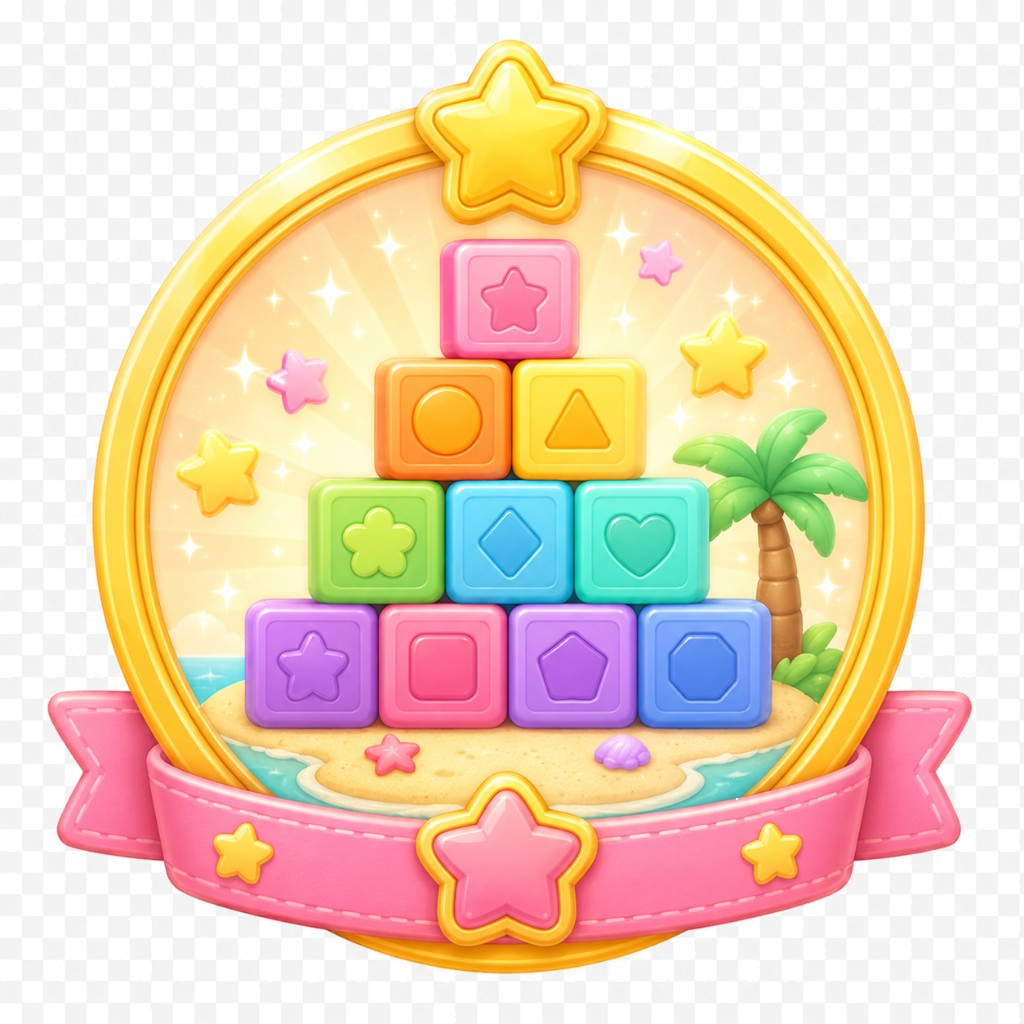
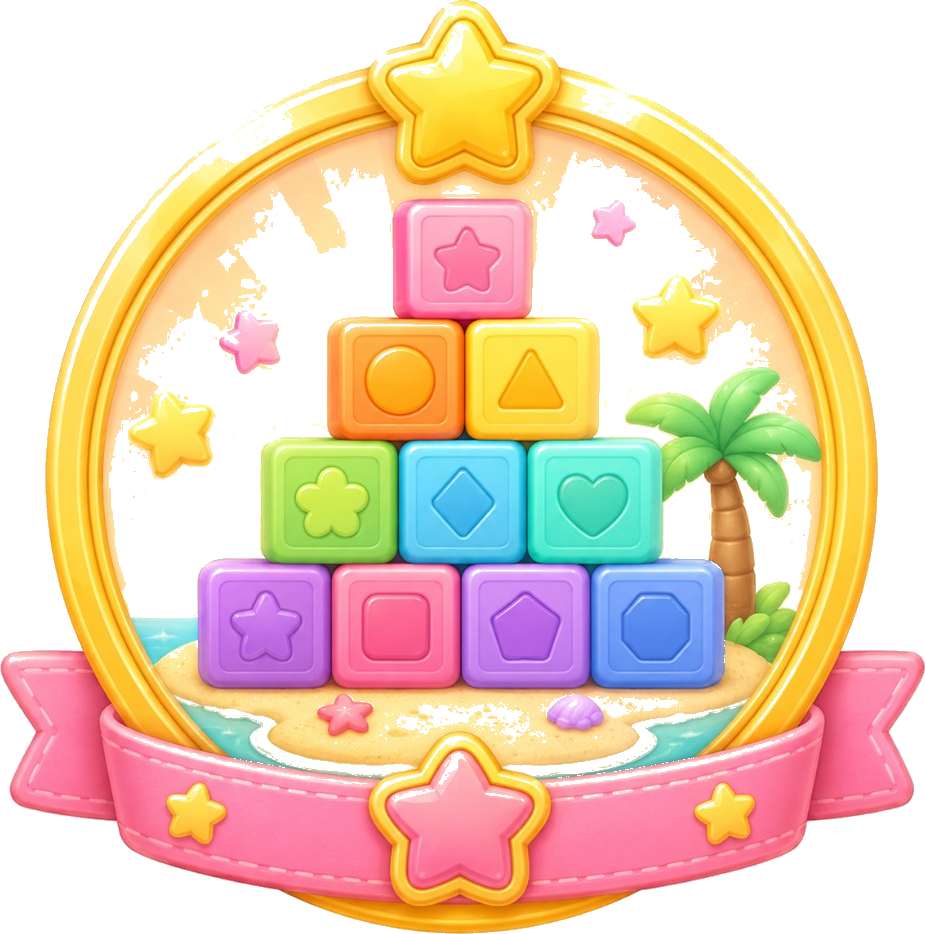
remove background from badges

diff --git a/lumi_word_adventure/engine/asset_manager.py b/lumi_word_adventure/engine/asset_manager.py
@@ -57,6 +57,31 @@ def _find_content_bbox(surface: pygame.Surface) -> tuple[int, int, int, int] | N
     return min_x, min_y, max_x - min_x + 1, max_y - min_y + 1
 
 
+def _is_badge_backdrop(r: int, g: int, b: int, a: int) -> bool:
+    """Neutral export squares/checkerboard behind badge icons."""
+    if a < 12:
+        return True
+    if r > 248 and g > 248 and b > 248:
+        return True
+    peak = max(r, g, b)
+    low = min(r, g, b)
+    if peak - low <= 14 and peak >= 155:
+        return True
+    return _is_flat_backdrop(r, g, b, a)
+
+
+def _process_badge_icon(image: pygame.Surface) -> pygame.Surface:
+    """Remove baked-in white/checkerboard export frames from badge PNGs."""
+    surface = image.convert_alpha()
+    width, height = surface.get_size()
+    for y in range(height):
+        for x in range(width):
+            color = surface.get_at((x, y))
+            if _is_badge_backdrop(color.r, color.g, color.b, color.a):
+                surface.set_at((x, y), (0, 0, 0, 0))
+    return _crop_to_opaque_bbox(surface)
+
+
 def _is_export_padding(r: int, g: int, b: int, a: int) -> bool:
     """Checkerboard / pure-white export backdrops only — keep cream and pink card art."""
     if a < 10:
@@ -430,8 +455,7 @@ class AssetManager:
         elif filename.startswith("prompts/"):
             image = _process_word_garden_chunk(image, crop=False)
         elif filename.startswith("badges/"):
-            image = _knock_out_export_padding(image)
-            image = _crop_to_opaque_bbox(image)
+            image = _process_badge_icon(image)
         elif use_trim_cache:
             image = _trim_flat_backdrop(image)
         if use_trim_cache or filename.startswith(("objects/", "prompts/")):

diff --git a/lumi_word_adventure/tests/test_badge_assets.py b/lumi_word_adventure/tests/test_badge_assets.py
@@ -37,6 +37,23 @@ def test_badge_overlay_uses_subtitle_without_background_box() -> None:
     assert sample[0] > 100 or sample[1] > 60
 
 
+def test_process_badge_icon_removes_white_export_square() -> None:
+    from engine.asset_manager import _process_badge_icon
+
+    pygame.init()
+    if pygame.display.get_surface() is None:
+        pygame.display.set_mode((1, 1))
+    size = 120
+    surface = pygame.Surface((size, size), pygame.SRCALPHA)
+    surface.fill((255, 255, 255, 255))
+    pygame.draw.circle(surface, (255, 80, 120, 255), (size // 2, size // 2), 36)
+    processed = _process_badge_icon(surface)
+    pw, ph = processed.get_size()
+    assert pw < size
+    assert ph < size
+    assert processed.get_at((pw // 2, ph // 2)).a > 200
+
+
 def test_badge_unlock_manifest_has_background_and_icon_layer() -> None:
     spec = get_screen_spec("badge_unlock", fallback_image="21_badge_unlock.png")
     assert spec.asset_root == "badge_unlock"

diff --git a/lumi_word_adventure/tools/install_badge_chunks.py b/lumi_word_adventure/tools/install_badge_chunks.py
@@ -15,7 +15,7 @@ os.environ.setdefault("SDL_AUDIODRIVER", "dummy")
 
 import pygame
 
-from engine.asset_manager import _crop_to_opaque_bbox, _knock_out_export_padding
+from engine.asset_manager import _process_badge_icon
 
 ASSETS = Path("/home/bilal/.cursor/projects/home-bilal-bilal-projects-Learning-AIU-python-Lumi/assets")
 DEST = PROJECT / "assets" / "ui_chunks" / "badge_unlock"
@@ -59,8 +59,7 @@ def _process_badge(src_name: str, dest: Path) -> None:
         image = image.convert_alpha()
     else:
         image = image.convert()
-    image = _knock_out_export_padding(image)
-    image = _crop_to_opaque_bbox(image)
+    image = _process_badge_icon(image)
     pygame.image.save(image, str(dest))
     print(f"  -> {dest.relative_to(PROJECT)}")
 
